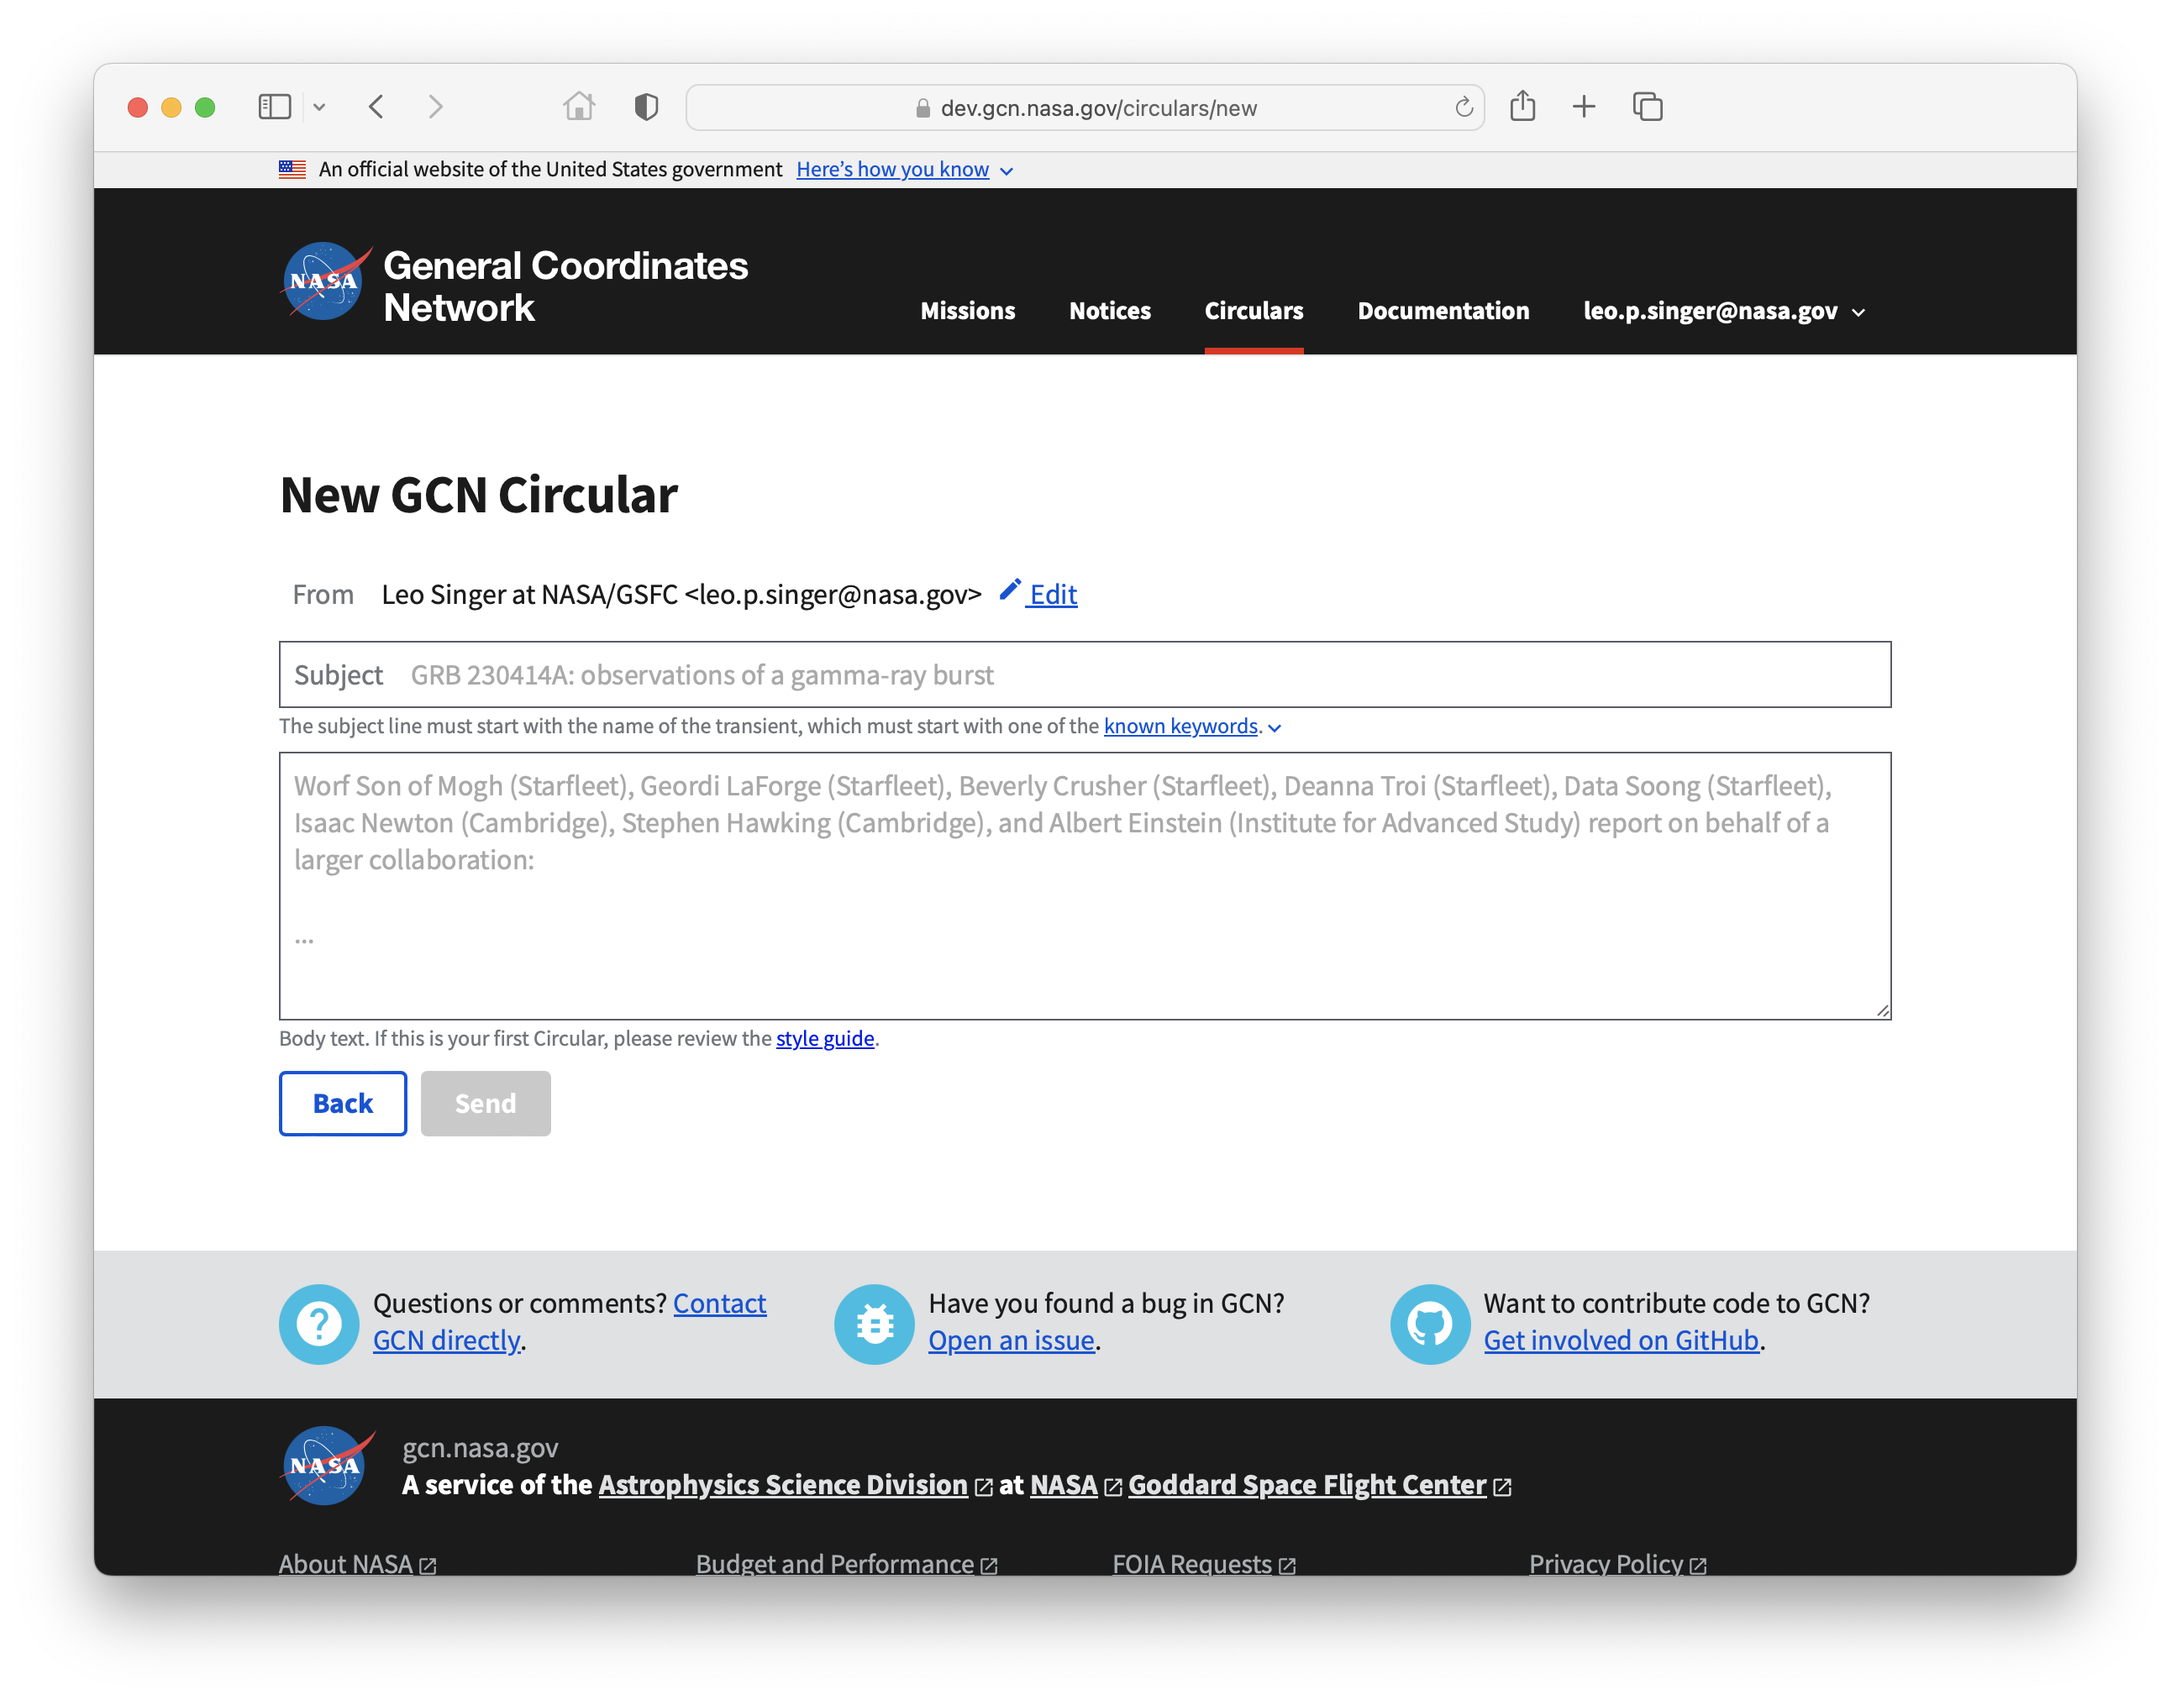
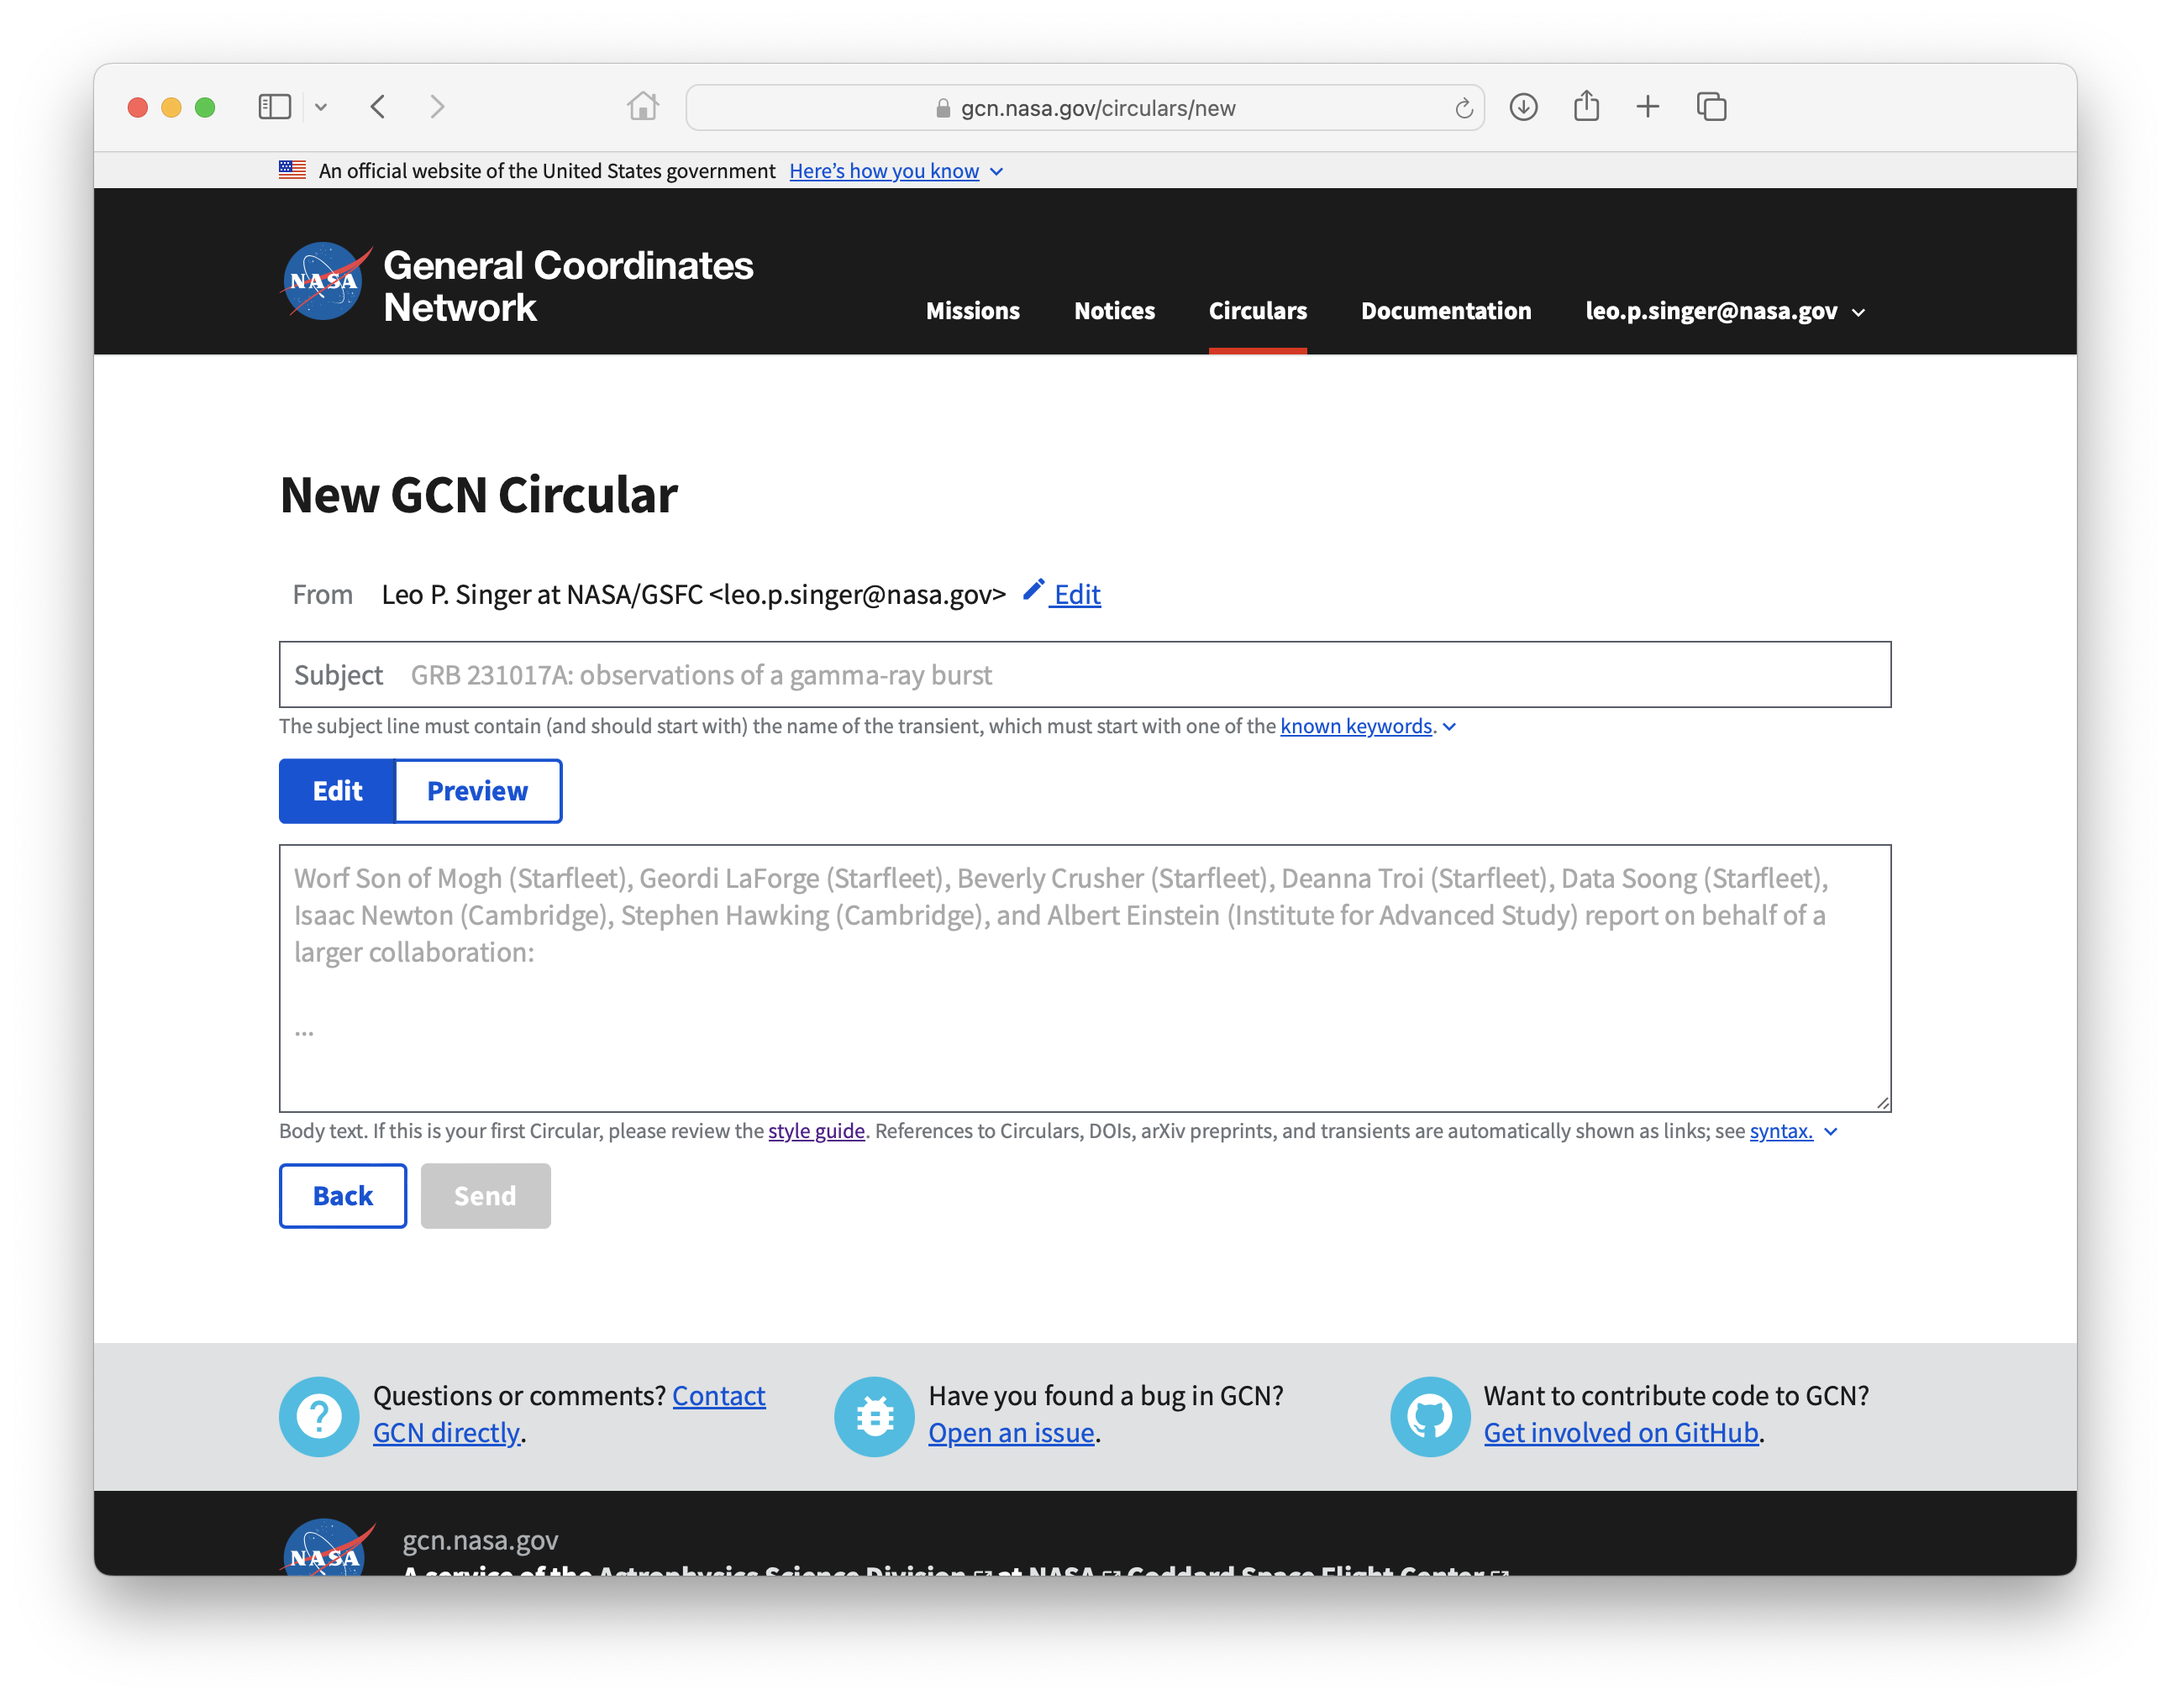
More slide updates for NSF WoU conference
- Update screenshots
- Make some bullet points slightly shorter

diff --git a/index.html b/index.html
@@ -822,7 +822,8 @@ On April 17, 2023, GCN Circulars moved from the old site to the new one. If you 
         
         **Important: make sure you sign in the same way each time.**
         Accounts are *not* linked.
-        **Legacy GCN Classic Circulars users**: Select “Sign up” not “Sign in” at your first login to prepopulate your settings.
+
+        **Legacy GCN Classic Circulars users**: Select “Sign up” not “Sign in” on first login to migrate your settings.
       </textarea>
     </div>
   </div>
@@ -1069,9 +1070,9 @@ On April 17, 2023, GCN Circulars moved from the old site to the new one. If you 
         ## Unified schema and alert format for GCN Kafka
         * JSON schema with common core fields
         * Instrument/mission/observatory specific fields where needed
-        * <a href="https://gcn.nasa.gov/docs/notices/schema">Schema development documentation</a>
-        * <a href="https://gcn.nasa.gov/docs/schema">Schema Browser</a>
-        * <a href="https://github.com/nasa-gcn/gcn-schema">https://github.com/nasa-gcn/gcn-schema</a>
+        * [Schema development documentation](https://gcn.nasa.gov/docs/notices/schema)
+        * [Schema Browser](https://gcn.nasa.gov/docs/schema)
+        * [GitHub project: nasa-gcn/gcn-schema](https://github.com/nasa-gcn/gcn-schema)
       </textarea>
     </div>
   </div>
